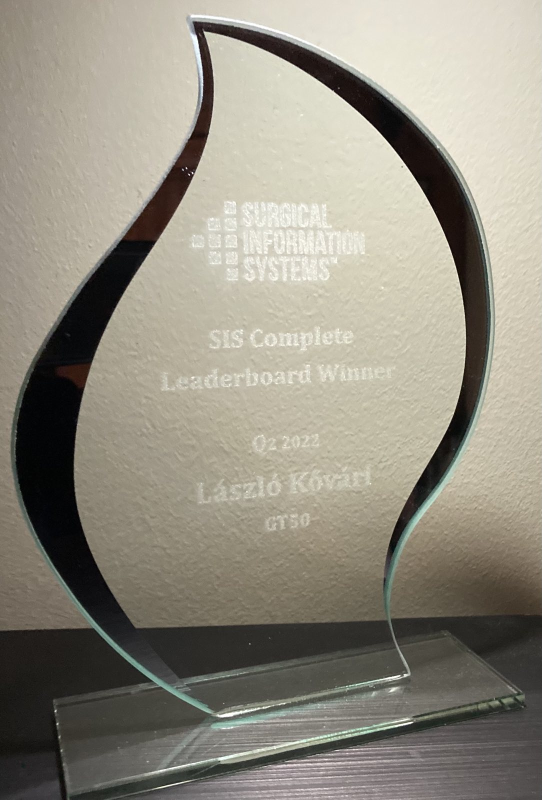
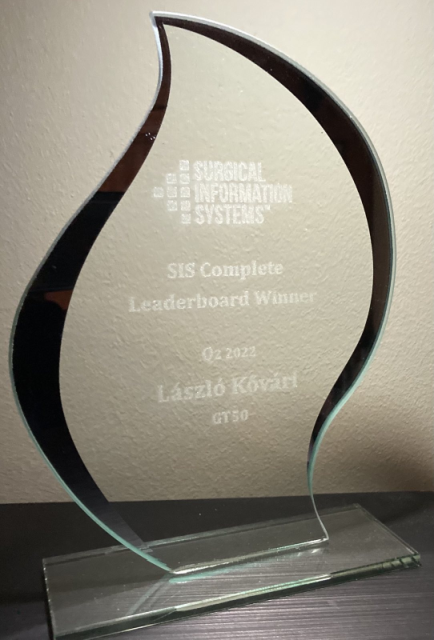
updated award images

diff --git a/src/app/layout/angular-page/angular-page-content0/angular-page-content0.component.ts b/src/app/layout/angular-page/angular-page-content0/angular-page-content0.component.ts
@@ -44,6 +44,12 @@ export class AngularPageContent0Component implements OnInit {
   constructor(private fileLoaderService: FileLoaderService) { }
 
   ngOnInit() {
+    /*
+    const text = "dddbsjjakjelajdakpagdk";
+    const charMap = this.fingMaxCharOccurrence(text);
+    const mostOccurredChar = [...charMap][0];
+    console.log(mostOccurredChar);
+    */
     this.githubLogoPath = 'assets/githubmark/GitHub-Mark-32px.png';
     this.collectedAngularInterviewQApdf = "assets/bigfiles/AngularInterviewQuestionsByLK.pdf";
     this.angularVersion = angular.VERSION.full;
@@ -143,4 +149,21 @@ export class AngularPageContent0Component implements OnInit {
     return totalTime;
   }
 
+  /* just for practicing
+  private fingMaxCharOccurrence(text: string): Map<string, number> {
+    let res = new Map<string, number>();
+    for(let ix = 0; ix < text.length; ix++) {
+      const chr = text.charAt(ix);
+      if (res.has(chr)) {
+        let value = res.get(chr) ? res.get(chr) : 0;
+        value!++;
+        res.set(chr, value!);
+      } else {
+        res.set(chr, 1);
+      }
+    }
+    res = new Map([...res.entries()].sort((a, b) => b[1] - a[1]));
+    return res;
+  }
+  */
 }

diff --git a/src/app/layout/awards-page/awards-content.component.html b/src/app/layout/awards-page/awards-content.component.html
@@ -14,7 +14,7 @@
             <a class="spacer"
               href="https://github.com/lkovari/KLHome/blob/master/src/app/shared/directives/imag-lazy-loading.directive.ts">
               <img noLazy [src]="githubLogoPath" width="16" height="16">
-            </a>Technical notes:</label> assigned to all images an attribute loading="lazy" by a directive)
+            </a>Technical notes:</label> assigned to all images an attribute loading="lazy" by a custom made directive)
     </div>
     <div class="image-content">
         <ul>
@@ -23,7 +23,7 @@
                 alt="Caught at your best Q4 2021">
             </li>            
             <li>Caught at your best Q4 2021
-                <img width="800" height="561" src="assets/images/2022Q4CaughtAtYourBestbig.png" class="img-responsive"
+                <img width="800" height="561" src="assets/images/2021Q4CaughtAtYourBest.png" class="img-responsive"
                 alt="Caught at your best Q4 2021">
             </li>
             <li>20 years of service.

diff --git a/src/app/shared/components/sidebar/sidebar.component.ts b/src/app/shared/components/sidebar/sidebar.component.ts
@@ -8,8 +8,8 @@ import { Component, OnInit } from '@angular/core';
 export class SidebarComponent implements OnInit {
   isActive = false;
   showMenu = '';
-  lastUpdate = new Date('11/30/2022 10:51 AM');
-  lastUpdateTooltip = 'updated the CV:';
+  lastUpdate = new Date('12/04/2022 06:57 PM');
+  lastUpdateTooltip = 'updated award images';
 
   ngOnInit() {
     this.lastUpdateTooltip = this.lastUpdateTooltip + '';
